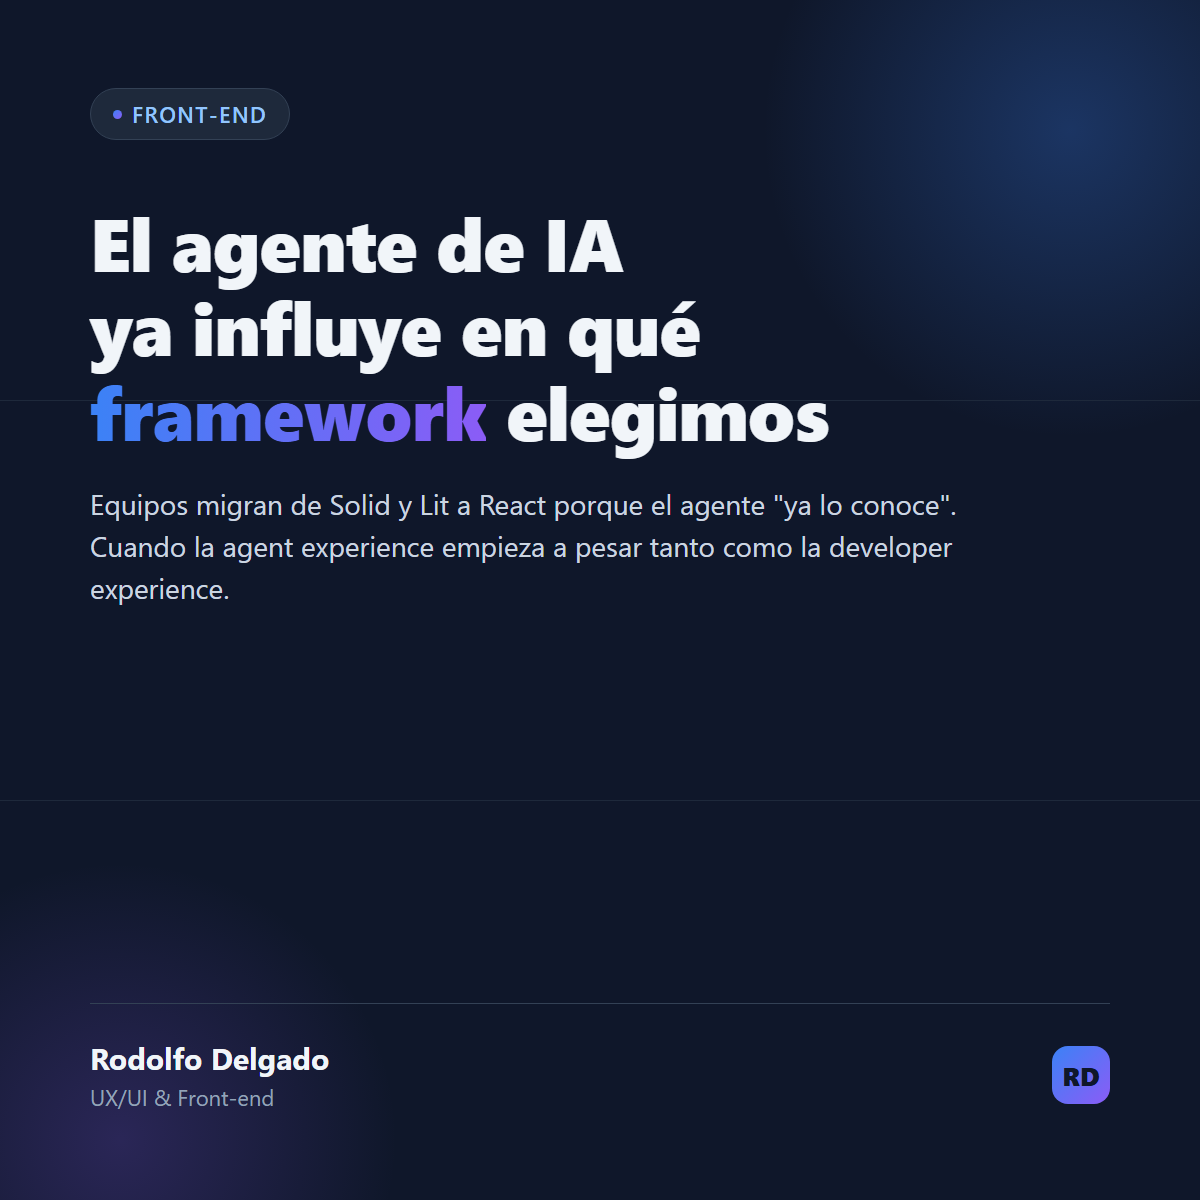
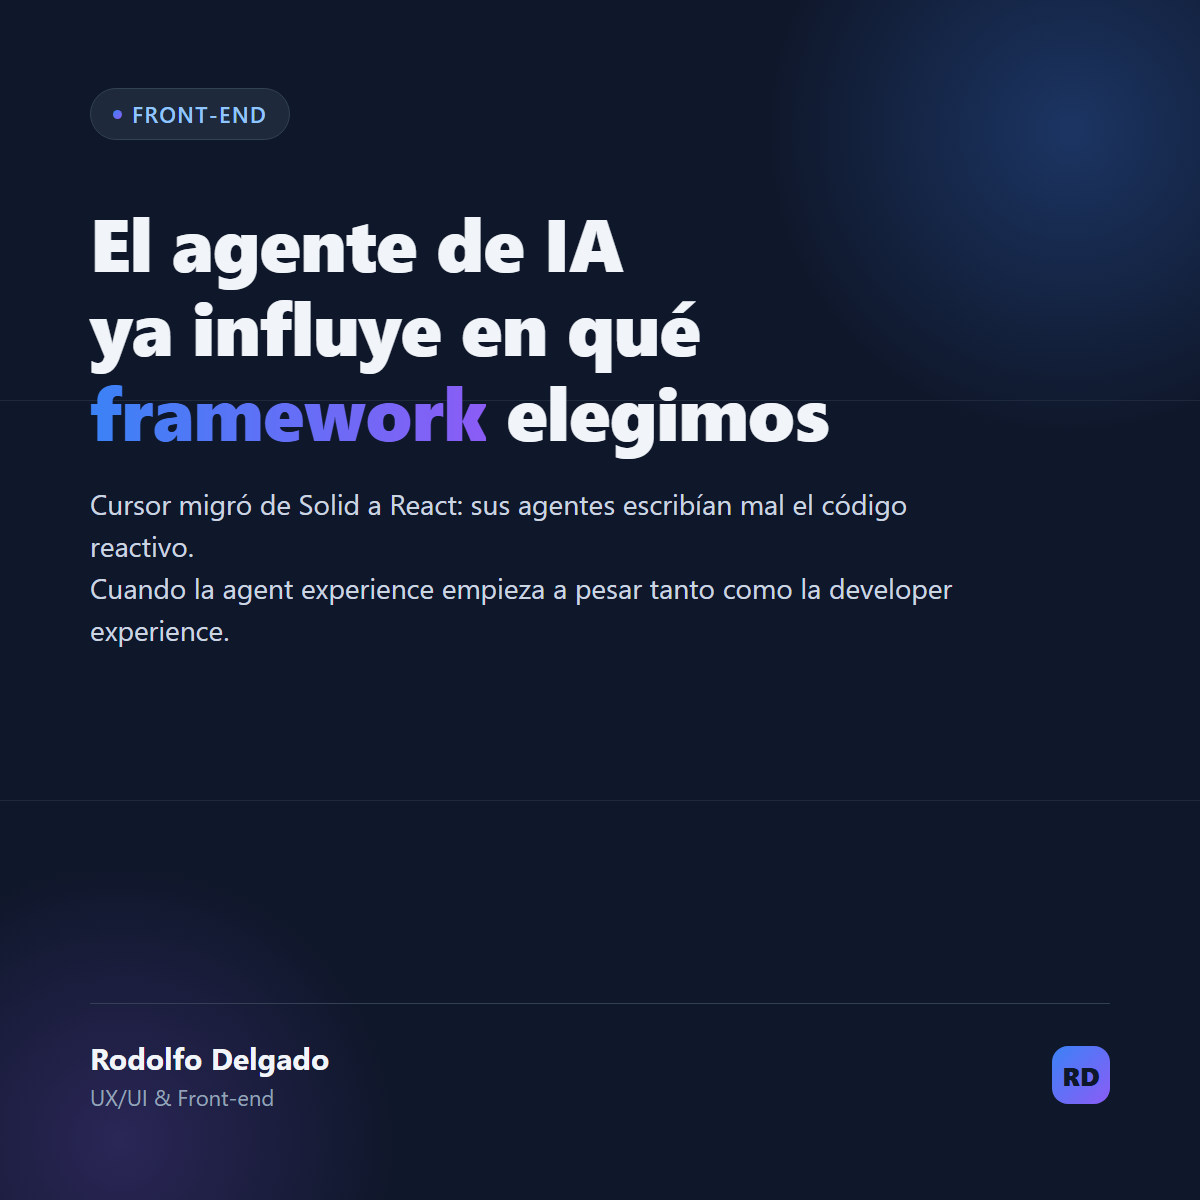
fix: corregir cita de Cursor y quitar caso de Viget no verificado en post de front-end
La cita 'los agentes conocen React' era una paráfrasis de Nolan Lawson, no
una cita textual de Cursor. Se reemplaza por la cita verificada en la
fuente primaria (X, @poteto, 17 de agosto de 2026): el motivo real fue
rendimiento/mantenibilidad de la reactividad de Solid, más el hecho de que
los agentes escribían mal código Solid por tracking accidental.

Se retira la mención al caso de Viget (Lit a React) por no encontrar una
fuente primaria propia que lo respalde con el mismo nivel de detalle.

Changed region(s): [[0.0617, 0.4008, 0.8017, 0.555]]

diff --git a/src/data/blogPosts.ts b/src/data/blogPosts.ts
@@ -8,16 +8,16 @@ export const blogPosts: BlogPost[] = [
     dateLabel: '25 de agosto, 2026',
     tags: ['Front-end', 'IA', 'React'],
     excerpt:
-      'El 23 de agosto Nolan Lawson, programador y ex integrante de un equipo de performance de navegadores, publicó un análisis sobre cómo la IA está reconfigurando el front-end. Cita el caso de Cursor y Viget, que migraron proyectos desde Solid y Lit hacia React porque, según explicitó Cursor, "los agentes conocen React". Repaso qué implica que la agent experience empiece a pesar tanto como la developer experience.',
+      'El 23 de agosto Nolan Lawson, programador y ex integrante de un equipo de performance de navegadores, publicó un análisis sobre cómo la IA está reconfigurando el front-end. Cita el caso de Cursor, que completó su migración de Solid a React: según confirmó ahí mismo una ingeniera del equipo, React fue "la cantidad más conocida" y los agentes escribían mal código Solid por errores de reactividad. Repaso qué implica que el manejo de un framework por parte de un agente empiece a pesar en esa decisión.',
     content: [
       'El 23 de agosto de 2026, Nolan Lawson publicó en su blog "Read the Tea Leaves" un análisis titulado "The asteroid currently hitting frontend web development". Lawson es programador en Seattle, actualmente en la empresa Socket, con años de trayectoria en performance de navegadores y en proyectos como PouchDB. El punto de partida de su artículo es una observación personal: varios educadores de front-end que admira, entre ellos Axel Rauschmayer, Salma Alam-Naylor y Josh W. Comeau, están reduciendo su actividad, mientras que otras figuras conocidas del área, como Kent C. Dodds, Addy Osmani, Rachel Nabors y Lydia Hallie, pivotaron de hablar de desarrollo front-end a hablar principalmente de inteligencia artificial.',
       'Para ilustrar su punto, Lawson cuenta que le pidió a Claude Sonnet que diagnosticara un Chrome trace con costos altos de "Style Calculation", uno de esos acertijos clásicos de performance que, según su experiencia, hacía tropezar incluso a desarrolladores expertos. La respuesta del modelo le pareció sólida, al punto de admitir que hoy, pese a haber escrito sobre performance de navegadores durante años y haber trabajado en un equipo dedicado a eso, probablemente le pasaría el trace directo a un agente de IA antes que diagnosticarlo él mismo.',
       'El argumento central del artículo tiene varias capas. La primera es que el código de front-end es, en su opinión, más barato de entregarle a un agente sin supervisión estricta que el código de backend: escribir un componente y llevarlo a producción conlleva menos riesgo inmediato que aplicar una migración de base de datos, aunque Lawson aclara que el riesgo no es cero, sobre todo en accesibilidad o en bucles que bloquean la interfaz.',
-      'La segunda capa, la que más me interesa como front-end, es el ejemplo concreto que cita sobre elección de framework. Según relata, Cursor y Viget migraron proyectos desde Solid y Lit hacia React respectivamente. Lo notable es la razón: en el caso de Cursor, explicitada como "los agentes conocen React". Lawson lo resume con una idea que da título a esta nota: la "developer experience", la ergonomía pensada para que una persona escriba menos código o código más claro, empieza a competir con la "agent experience", qué tan bien un modelo de IA sabe escribir en ese framework porque está sobrerrepresentado en sus datos de entrenamiento.',
+      'La segunda capa, la que más me interesa como front-end, es el ejemplo concreto que cita sobre elección de framework. Según relata Lawson, Cursor completó la migración de su editor desde Solid hacia React. Fui a verificar esa afirmación en su fuente original: el 17 de agosto, lauren, ingeniera de Cursor, publicó en X que "el gran motivo de esta migración fue por razones de rendimiento y mantenibilidad", porque los enfoques basados en signals como Solid facilitan crear "trampas de rendimiento" cuando la reactividad genera una cascada accidental de actualizaciones en aplicaciones grandes y complejas. Agregó el matiz que conecta con el argumento de Lawson: "para nosotros, React fue la cantidad más conocida", y observó que los agentes "escribían bastante mal código Solid, porque todo terminaba siendo rastreado por accidente", lo que generaba justamente los problemas de rendimiento que buscaban evitar. Lawson toma este caso como evidencia de un cambio más amplio: la "developer experience", la ergonomía pensada para que una persona escriba menos código o código más claro, empieza a competir con la "agent experience", qué tan predecible resulta un framework para un agente que no tiene la intuición que gana una persona con la práctica.',
       'La tercera capa es una hipótesis sobre el futuro de los estándares web: si buena parte del esfuerzo histórico en CSS y JavaScript apuntaba a mejorar la ergonomía para quien escribe el código a mano, esa presión podría perder peso relativo, porque a un agente no le cuesta mucho más escribir tres líneas de CSS que una, y hasta podría costarle más usar una sintaxis nueva que no está bien representada en su entrenamiento.',
-      'Vengo de años de handoff entre diseño y desarrollo, primero con Angular en la app de Banco Estado, después con React en proyectos más recientes. Siempre asumí que la elección de framework se apoyaba en un conjunto más o menos estable de criterios: mantenibilidad, curva de aprendizaje del equipo, ajuste al producto, ecosistema de librerías. Que ahora se sume un criterio adicional, qué tan bien lo domina el agente de IA con el que se trabaja a diario, no me parece un matiz cosmético. No reemplaza a los criterios anteriores, pero compite por el mismo espacio de decisión, y en organizaciones donde gran parte del código ya se escribe con asistencia de IA, puede terminar pesando más de lo que cualquiera hubiera anticipado hace un par de años.',
+      'Vengo de años de handoff entre diseño y desarrollo, primero con Angular en la app de Banco Estado, después con React en proyectos más recientes. Siempre asumí que la elección de framework se apoyaba en un conjunto más o menos estable de criterios: mantenibilidad, curva de aprendizaje del equipo, ajuste al producto, ecosistema de librerías. Que ahora se sume un criterio adicional, qué tan bien logra un agente de IA trabajar con las particularidades de ese framework sin caer en errores sutiles, no me parece un matiz cosmético. No reemplaza a los criterios anteriores, pero compite por el mismo espacio de decisión, y en organizaciones donde gran parte del código ya se escribe con asistencia de IA, puede terminar pesando más de lo que cualquiera hubiera anticipado hace un par de años.',
       'Lawson también dedica una parte del artículo a pensar qué le queda a la educación en front-end en este escenario. Sugiere tres direcciones: enseñarle a los agentes a pensar en arquitecturas completas, por ejemplo preferir frameworks multipágina como Astro o Eleventy en vez de forzar una SPA innecesaria; diseñar sitios pensados para que agentes los puedan usar bien, citando el proyecto is-agentic de Vercel como ejemplo; y ofrecer consultoría especializada para arreglar aplicaciones "vibe-coded" que terminan siendo lentas o inseguras cuando hay dinero real en juego.',
-      'Vale la pena una nota de cautela: este es un ensayo personal de un solo autor, con una muestra pequeña y puntual, dos empresas migrando de framework, presentada como evidencia de una tendencia más amplia. No es un estudio ni una encuesta representativa del ecosistema front-end, y el propio Lawson lo enmarca como una reflexión abierta, no como una conclusión cerrada. Aun así, la pregunta de fondo que plantea me parece legítima independientemente de cuántos casos existan hoy: si escribir código deja de tener como único lector a otra persona, ¿debería la elección de herramientas seguir optimizándose solo para personas?',
+      'Vale la pena una nota de cautela: Lawson también menciona de paso un caso similar de la consultora Viget, migrando un proyecto de Lit a React, pero no logré ubicar una fuente primaria propia de Viget con el mismo nivel de detalle que el tuit de Cursor, así que prefiero no repetirlo como un hecho confirmado. Este es, en el fondo, un ensayo personal de un solo autor que generaliza a partir de un caso bien documentado, no un estudio ni una encuesta representativa del ecosistema front-end, y el propio Lawson lo enmarca como una reflexión abierta, no como una conclusión cerrada. Aun así, la pregunta de fondo que plantea me parece legítima independientemente de cuántos casos existan hoy: si escribir código deja de tener como único lector a otra persona, ¿debería la elección de herramientas seguir optimizándose solo para personas?',
       'La pregunta que me queda dando vueltas, pensando en cómo se arman los stacks de los proyectos en los que participo, es si en algún momento vamos a evaluar explícitamente qué tan bien resuelve un agente de IA cada framework antes de elegirlo, de la misma forma en que hoy evaluamos la documentación o el tamaño de la comunidad.',
     ],
     image: '/blog/agentes-ia-eligen-framework-frontend.png',
